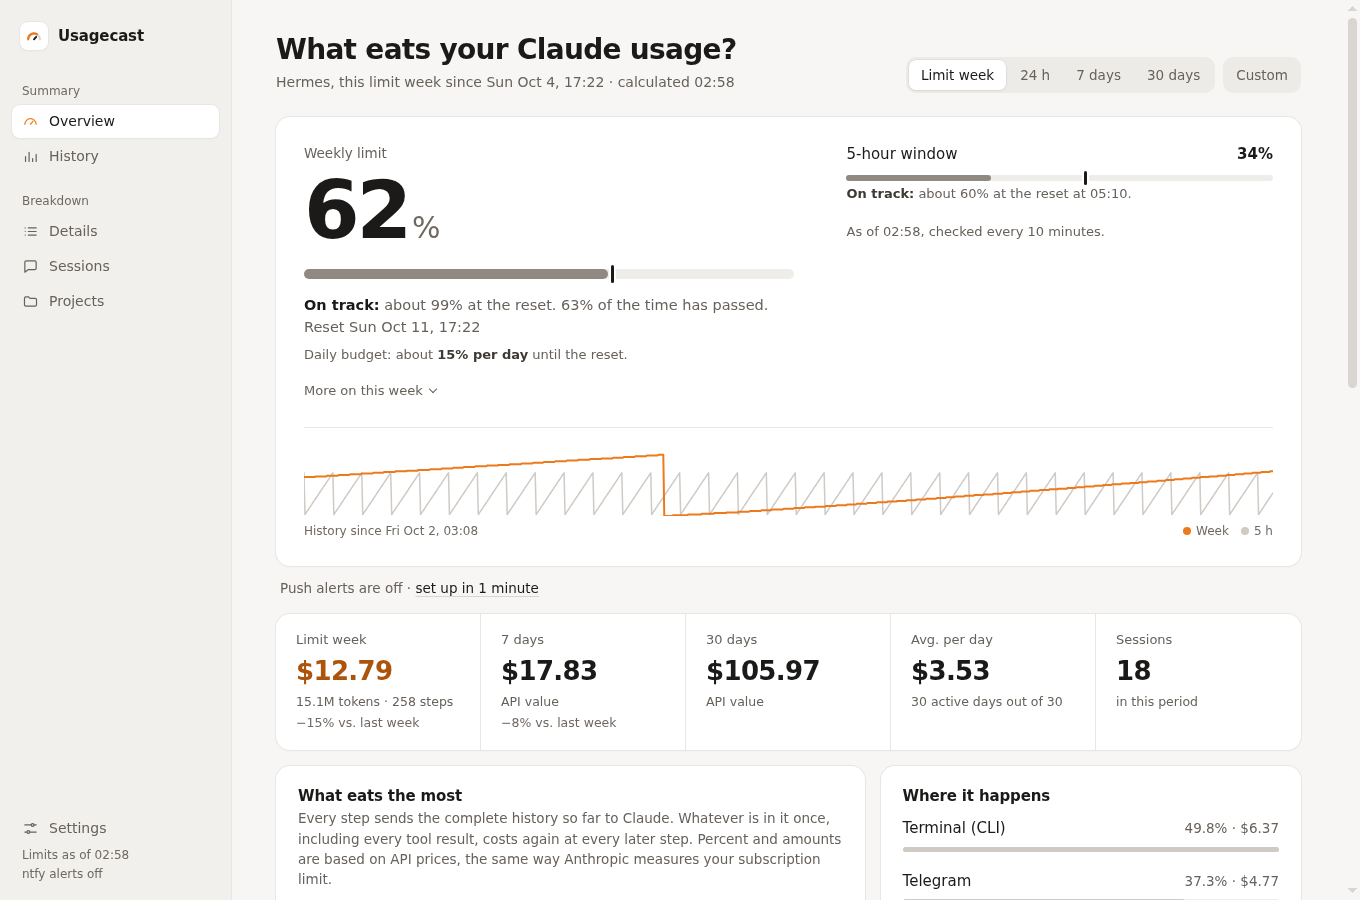
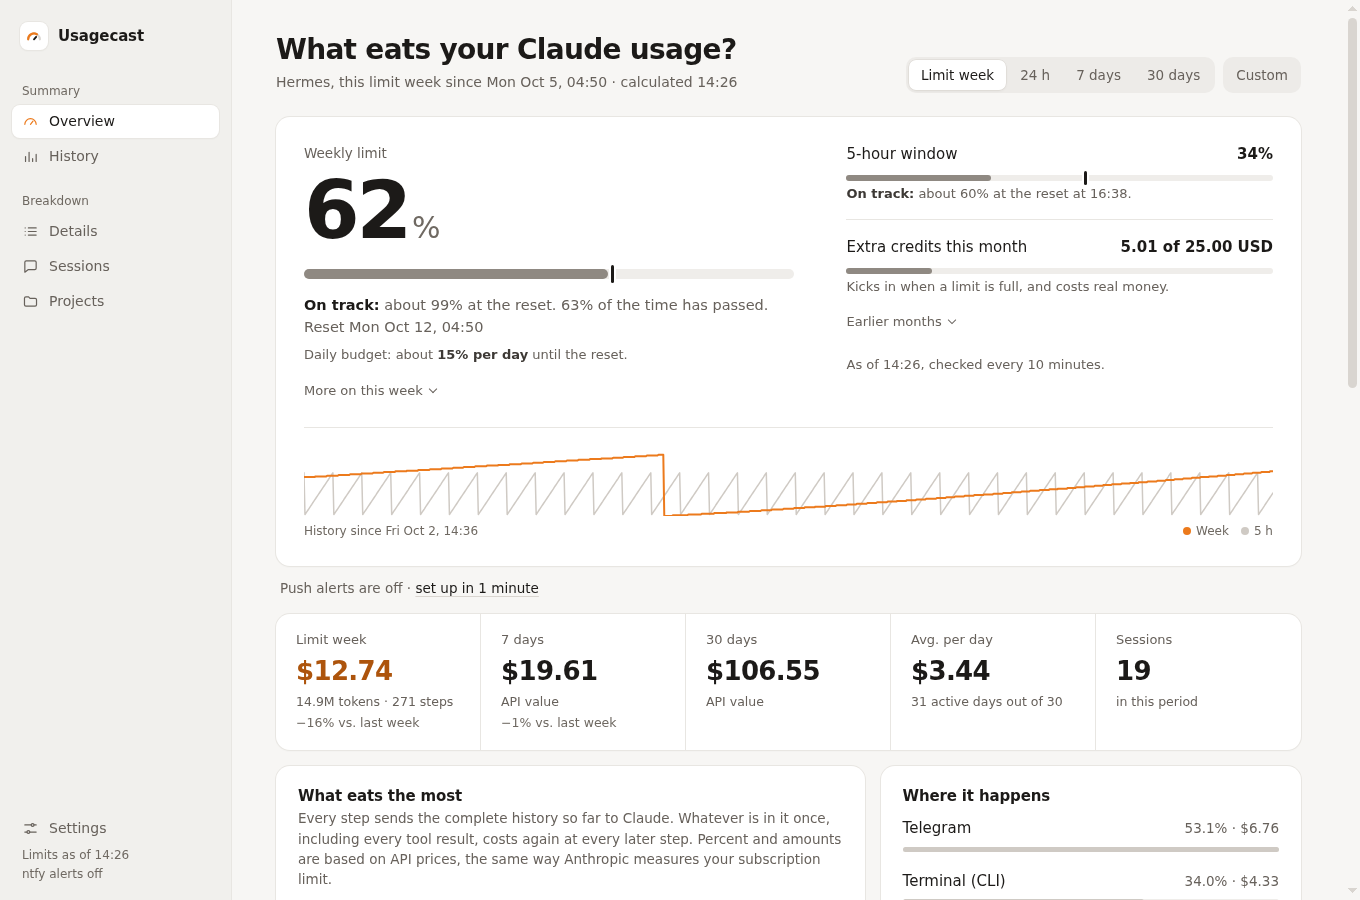
Wrap up 3.0.0: README for other machines and the forecast backtest, demo with a reporting laptop, new overview screenshots, limit values no longer wrap on phones, Python 3.11 compatible f-string

diff --git a/static/style.css b/static/style.css
@@ -93,7 +93,7 @@ details.range span{color:var(--faint)}
 .lim+.lim{border-top:1px solid var(--line);padding-top:16px}
 .lim .row{margin-bottom:9px}
 .lim .row>span{font-weight:500}
-.lim .row b{font:600 15px var(--display);font-variant-numeric:tabular-nums}
+.lim .row b{font:600 15px var(--display);font-variant-numeric:tabular-nums;white-space:nowrap}
 .lim .meter{height:6px}.lim .meter .now{top:-4px;height:14px}
 .hero .trend{grid-column:1/-1;margin-top:14px;padding-top:16px;border-top:1px solid var(--line)}
 svg.spark{width:100%;height:72px;display:block}

diff --git a/app.py b/app.py
@@ -1568,7 +1568,8 @@ def limits_card(week_cost, split=None):
                          f'{extra}</p>')
             hosts = ingest_hosts()
             if hosts:
-                more += f'<p class="why">{tr("lim.hosts", hosts=", ".join(f"{e(h)} ({when(x['at'], 'daytime')})" for h, x in hosts.items()))}</p>'
+                names = ", ".join(f"{e(h)} ({when(x['at'], 'daytime')})" for h, x in hosts.items())
+                more += f'<p class="why">{tr("lim.hosts", hosts=names)}</p>'
             if FC.get("method"):
                 gain = pc((1 - FC["wtd"] / FC["lin"]) * 100) if FC["lin"] else pc(0)
                 more += f'<p class="why">{tr("lim.fc." + FC["method"], gain=gain, lin=pc(FC["lin"]), wtd=pc(FC["wtd"]))}</p>'
@@ -2696,7 +2697,11 @@ def demo():
     STATE.update(limits={"five_hour": {"utilization": 34.0, "resets_at": iso(five)}, "seven_day": {"utilization": 62.0, "resets_at": iso(reset)},
                          "extra_usage": {"is_enabled": True, "used_credits": 501, "monthly_limit": 2500, "decimal_places": 2, "currency": "USD"}},
                  at=1e12, ok=now)   # at far ahead: refresh_limits() never fetches
-    SET.clear(); SET.update(DEFAULTS, push="off", ntfy_topic="", url="", guard=True, guard_jobs=["d2"]); FX.clear()
+    (DATA / "ingest").mkdir()   # a laptop that reports its Claude Code usage in the evenings
+    (DATA / "ingest" / "macbook.json").write_text(json.dumps({"host": "macbook", "at": round(now - 300), "hours": [
+        [h, 0.8 + 0.1 * (h // 3600 % 5)] for h in range(int(now - 7 * 86400) // 3600 * 3600, int(now), 3600)
+        if datetime.fromtimestamp(h).hour in (19, 20, 21)]}))
+    SET.clear(); SET.update(DEFAULTS, push="off", ntfy_topic="", url="", guard=True, guard_jobs=["d2"], ingest_token="demo"); FX.clear()
     print(f"usagecast demo on http://127.0.0.1:{PORT} (data in {tmp})", flush=True)
     ThreadingHTTPServer(("127.0.0.1", PORT), Handler).serve_forever()
 

diff --git a/README.de.md b/README.de.md
@@ -74,8 +74,11 @@ Projekt, dessen Pfad in ihren Tool-Aufrufen am häufigsten vorkommt: Ordner unte
 Home-Ordner (auch eine Ebene tiefer, etwa `~/projects/app`). Hermes' eigener Ordner zählt nur, wenn sonst kaum etwas
 vorkommt.
 
-**Prognose:** Die Woche wird linear aus dem Tempo seit dem letzten Reset hochgerechnet, das 5-Stunden-Fenster aus dem
-Tempo der letzten Stunde.
+**Prognose:** Das 5-Stunden-Fenster wird aus dem Tempo der letzten Stunde hochgerechnet. Für die Woche testet Usagecast
+an deinen letzten vollen Limit-Wochen zwei Verfahren: eine gerade Linie aus dem Tempo seit dem Reset und deinen
+Wochenrhythmus (welcher Anteil der Kosten einer üblichen Woche bis zu dieser Stunde anfällt). Der Rhythmus zählt, wenn er
+mindestens 10 % genauer ist; der Ausklapptext unter dem Wochenlimit nennt Verfahren und beide Abweichungen (Ergebnis in
+`data/forecast.json`).
 
 **Tempo und Budget:** Ein Strich auf jedem Limit-Balken zeigt, wie viel vom Fenster schon vorbei ist. Liegt der
 Verbrauch davor, heißt es „Zu schnell“ mit der Uhrzeit, zu der das Limit voll ist, liegt er dahinter, „Im Plan“ mit dem
@@ -84,7 +87,8 @@ Statusseite von Anthropic eine Störung, steht unter den Limits eine Zeile dazu.
 
 **Aufteilung des Limits:** Aus den Limit-Messungen alle 10 Minuten und den Kosten pro Stunde schätzt Usagecast, wie viel
 API-Gegenwert ein Prozent deiner Woche ist. Damit teilt es die Woche in Hermes, Claude Code (Sessions in
-`~/.claude/projects` auf demselben Rechner) und den Rest (claude.ai, die Apps, andere Rechner). Kosten lassen sich statt
+`~/.claude/projects` auf demselben Rechner oder von anderen Rechnern gemeldet, siehe unten) und den Rest (claude.ai,
+die Apps). Kosten lassen sich statt
 in Geld auch als Anteil der Woche anzeigen.
 
 **Preise:** Ein Modell, das in der Preisliste fehlt, bekommt die Preise von Claude Opus und den Hinweis „Preis geschätzt“.
@@ -140,6 +144,23 @@ Sperrbildschirm wählen, auf den Widget-Bereich (oder die Zeile über der Uhr) t
 neue Widget antippen, das Skript wählen und die Adresse als „Parameter“ eintragen. Rund zeigt die Woche als Ring,
 rechteckig die Woche mit Reset, einen dünnen Balken und das 5-Stunden-Fenster, die Zeile über der Uhr „Week 65% · 5h 6%“.
 iOS färbt sie passend zur Uhr ein.
+
+## Claude Code auf anderen Rechnern
+
+Claude Code auf einem Laptop nutzt dieselben Limits, schreibt seine Transkripte aber dort. `tools/cc-report.py`
+(Standardbibliothek, Python 3.9 oder neuer) summiert die Token-Zahlen pro Stunde und Modell und schickt nur diese Zahlen
+alle 10 Minuten ans Dashboard; die Limit-Aufteilung zählt sie dann als Claude Code. Auf `/settings` unter „Andere
+Rechner“ einen Token erstellen und den dort gezeigten Befehl auf dem anderen Rechner ausführen, zum Beispiel
+
+```sh
+curl -fsSO https://dashboard.example:8443/cc-report.py
+python3 cc-report.py --url https://dashboard.example:8443 --token TOKEN --install
+```
+
+Auf dem Mac lädt das einen LaunchAgent (`dev.usagecast.report`, alle 10 Minuten), unter Linux gibt es eine
+crontab-Zeile aus. `--dry-run` zeigt, was gesendet würde. Die Einstellungen liegen in `~/.config/usagecast/report.json`
+(Rechte 600). Der Endpunkt ist `POST /api/ingest` mit `Authorization: Bearer <token>`; ein neuer Token auf `/settings`
+sperrt den alten aus.
 
 ## Betrieb
 

diff --git a/README.md b/README.md
@@ -73,8 +73,10 @@ history like stored thinking.
 whose path shows up most often in its tool calls: folders under `/opt` and `/srv` and Git repos in the home folder (one
 level deeper too, like `~/projects/app`). Hermes' own folder only counts when hardly anything else shows up.
 
-**Forecast:** The week is extrapolated linearly from the pace since the last reset, the 5-hour window from the pace of
-the last hour.
+**Forecast:** The 5-hour window is extrapolated from the pace of the last hour. For the week Usagecast backtests two
+methods on your last complete limit weeks: a straight line from the pace since the reset, and your weekly rhythm (which
+share of a usual week's cost has passed by this hour). The rhythm is used when it is at least 10 % more accurate; the
+fold under the weekly limit names the method and both errors (result in `data/forecast.json`).
 
 **Pace and budget:** A mark on each limit bar shows how much of the window has passed. Ahead of it means "Too fast"
 with the time the limit will be full, behind it "On track" with the expected value at the reset. The daily budget is
@@ -83,7 +85,7 @@ under the limits says so.
 
 **Limit split:** From the limit readings every 10 minutes and the cost per hour, Usagecast estimates how much API value
 one percent of your week is. With that it splits the week into Hermes, Claude Code (sessions in `~/.claude/projects` on
-the same machine) and the rest (claude.ai, the apps, other machines). Costs can be shown as a share of the week instead
+the same machine or reported by other machines, see below) and the rest (claude.ai, the apps). Costs can be shown as a share of the week instead
 of money.
 
 **Prices:** A model missing from the price list is priced like Claude Opus and marked "estimated price".
@@ -134,6 +136,22 @@ The same script works on the Lock Screen (iOS 16 or later): long-press the Lock 
 Screen, tap the widget area (or the line above the clock), add Scriptable, then tap the new widget, choose the script and
 enter the address as "Parameter". Circular shows the week as a ring, rectangular the week with its reset, a thin bar and
 the 5-hour window, the line above the clock "Week 65% · 5h 6%". iOS tints them to match the clock.
+
+## Claude Code on other machines
+
+Claude Code on a laptop uses the same limits but writes its transcripts there. `tools/cc-report.py` (standard library,
+Python 3.9 or later) sums its token counts per hour and model and sends only those numbers to the dashboard every 10
+minutes; the limit split then counts them as Claude Code. On `/settings` under "Other machines": create a token, then
+run the command shown there on the other machine, for example
+
+```sh
+curl -fsSO https://dashboard.example:8443/cc-report.py
+python3 cc-report.py --url https://dashboard.example:8443 --token TOKEN --install
+```
+
+On a Mac this loads a LaunchAgent (`dev.usagecast.report`, every 10 minutes); on Linux it prints a crontab line.
+`--dry-run` shows what would be sent. Settings live in `~/.config/usagecast/report.json` (mode 600). The endpoint is
+`POST /api/ingest` with `Authorization: Bearer <token>`; a new token on `/settings` locks out the old one.
 
 ## Running it
 
